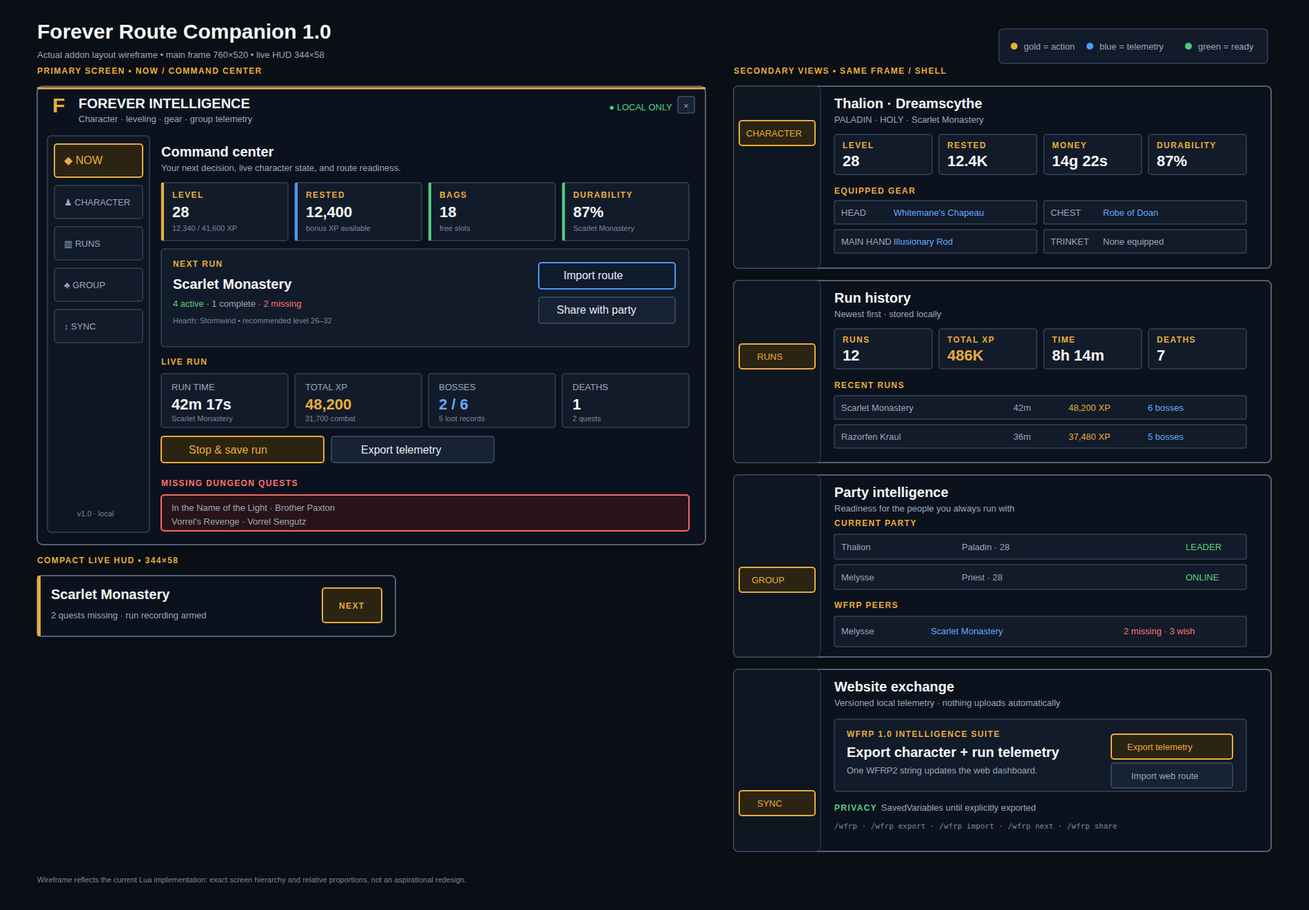
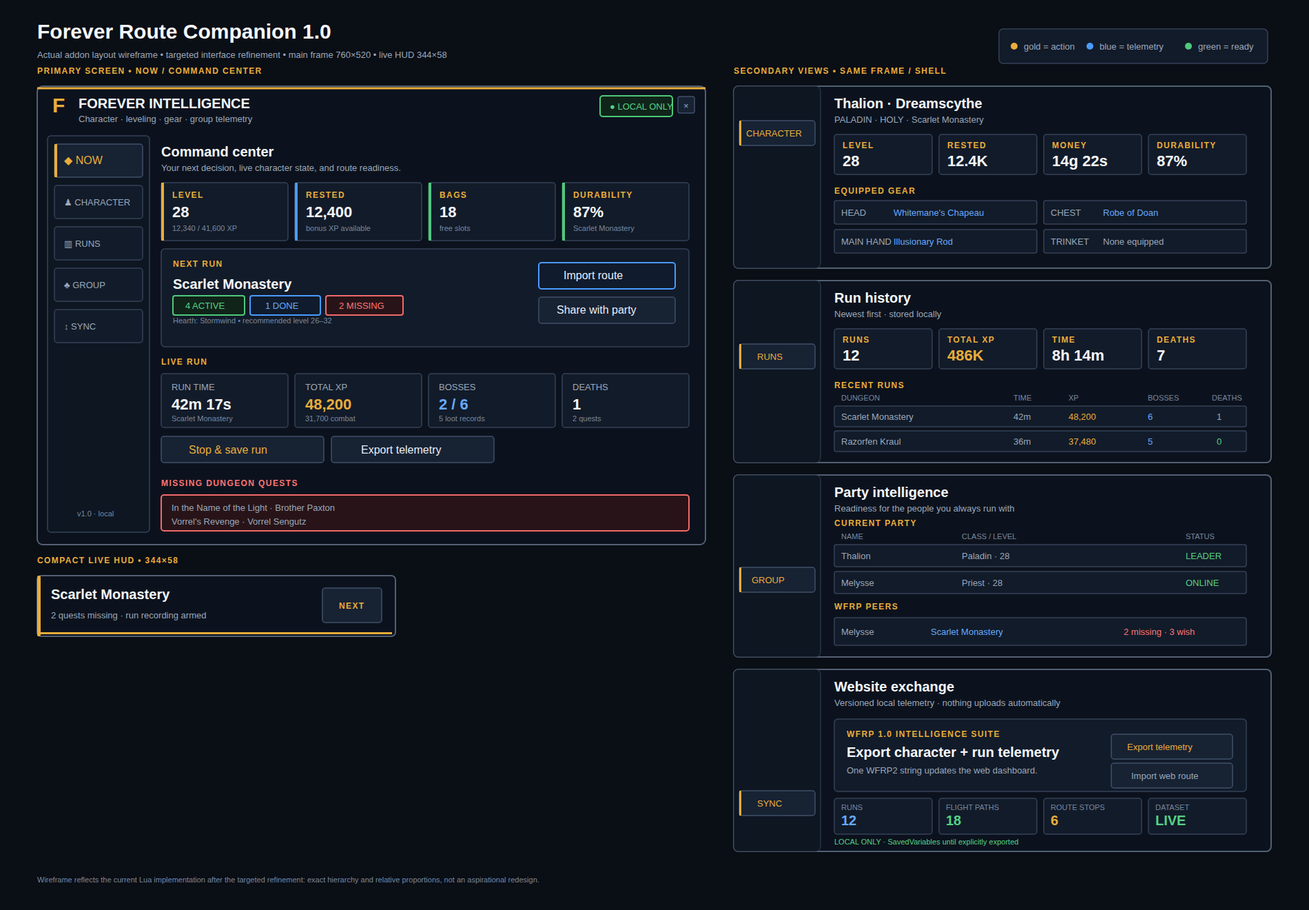
refine shared intelligence interface

diff --git a/design/addon-ui-wireframe.html b/design/addon-ui-wireframe.html
@@ -11,7 +11,7 @@
     .frame { fill: #0c121d; stroke: #526073; stroke-width: 2; }
     .surface { fill: #121b29; stroke: #354257; stroke-width: 1.5; }
     .surface2 { fill: #172233; stroke: #40506a; stroke-width: 1.5; }
-    .active { fill: #2c2412; stroke: #e9ad3b; stroke-width: 2; }
+    .active { fill: #172233; stroke: #40506a; stroke-width: 1.5; }
     .telemetry { fill: #101b2d; stroke: #4b9bff; stroke-width: 2; }
     .ready { fill: #10241a; stroke: #4fc97b; stroke-width: 2; }
     .warn { fill: #281418; stroke: #f16a6a; stroke-width: 2; }
@@ -35,7 +35,7 @@
 <svg viewBox="0 0 1900 1320" role="img" aria-label="Actual addon layout wireframe for Forever Route Companion">
   <rect x="0" y="0" width="1900" height="1320" fill="#0a0e15"/>
   <text x="54" y="56" class="h1">Forever Route Companion 1.0</text>
-  <text x="54" y="84" class="small">Actual addon layout wireframe • main frame 760×520 • live HUD 344×58</text>
+  <text x="54" y="84" class="small">Actual addon layout wireframe • targeted interface refinement • main frame 760×520 • live HUD 344×58</text>
   <g transform="translate(1450,42)">
     <rect x="0" y="0" width="390" height="50" rx="6" class="surface"/>
     <circle cx="22" cy="25" r="5" fill="#e9ad3b"/><text x="36" y="30" class="small">gold = action</text>
@@ -51,13 +51,13 @@
     <text x="22" y="38" class="gold" style="font-size:30px;font-weight:900">F</text>
     <text x="60" y="32" class="h2">FOREVER INTELLIGENCE</text>
     <text x="60" y="52" class="small">Character · leveling · gear · group telemetry</text>
-    <text x="830" y="35" class="small green">● LOCAL ONLY</text>
+    <rect x="817" y="14" width="105" height="30" rx="4" class="ready"/><text x="831" y="34" class="small green">● LOCAL ONLY</text>
     <rect x="930" y="15" width="24" height="24" rx="3" class="surface2"/><text x="938" y="33" class="small">×</text>
 
     <!-- left rail 116/760 proportion -->
     <rect x="15" y="72" width="148" height="575" rx="5" fill="#0e1622" stroke="#354257" stroke-width="1.5"/>
     <g transform="translate(25,84)">
-      <rect x="0" y="0" width="128" height="48" rx="4" class="active"/><text x="14" y="29" class="t gold">◆  NOW</text>
+      <rect x="0" y="0" width="128" height="48" rx="4" class="active"/><rect x="0" y="0" width="4" height="48" fill="#e9ad3b"/><text x="14" y="29" class="t gold">◆  NOW</text>
       <rect x="0" y="60" width="128" height="48" rx="4" class="surface"/><text x="14" y="89" class="small">♟  CHARACTER</text>
       <rect x="0" y="120" width="128" height="48" rx="4" class="surface"/><text x="14" y="149" class="small">▥  RUNS</text>
       <rect x="0" y="180" width="128" height="48" rx="4" class="surface"/><text x="14" y="209" class="small">♣  GROUP</text>
@@ -82,7 +82,9 @@
       <rect x="0" y="158" width="766" height="142" rx="5" class="surface"/>
       <text x="17" y="184" class="label">NEXT RUN</text>
       <text x="17" y="216" class="h2">Scarlet Monastery</text>
-      <text x="17" y="242" class="small"><tspan class="green">4 active</tspan> · 1 complete · <tspan class="red">2 missing</tspan></text>
+      <rect x="17" y="226" width="104" height="28" rx="3" class="ready"/><text x="35" y="245" class="small green">4 ACTIVE</text>
+      <rect x="129" y="226" width="102" height="28" rx="3" class="telemetry"/><text x="151" y="245" class="small blue">1 DONE</text>
+      <rect x="239" y="226" width="112" height="28" rx="3" class="warn"/><text x="258" y="245" class="small red">2 MISSING</text>
       <text x="17" y="266" class="tiny">Hearth: Stormwind • recommended level 26–32</text>
       <rect x="548" y="178" width="198" height="38" rx="4" class="telemetry"/><text x="584" y="202" class="t">Import route</text>
       <rect x="548" y="228" width="198" height="38" rx="4" class="surface2"/><text x="574" y="252" class="t">Share with party</text>
@@ -112,6 +114,7 @@
     <text x="20" y="34" class="h2">Scarlet Monastery</text>
     <text x="20" y="62" class="small">2 quests missing · run recording armed</text>
     <rect x="414" y="18" width="86" height="50" rx="4" class="active"/><text x="438" y="48" class="label">NEXT</text>
+    <rect x="5" y="82" width="510" height="3" fill="#e9ad3b"/>
   </g>
 
   <!-- SECONDARY SCREEN CONTACT SHEET -->
@@ -122,7 +125,7 @@
     <g>
       <rect x="0" y="0" width="780" height="264" rx="7" class="frame"/>
       <rect x="0" y="0" width="126" height="264" rx="7" fill="#0e1622" stroke="#354257"/>
-      <rect x="8" y="50" width="110" height="36" rx="4" class="active"/><text x="18" y="73" class="small gold">CHARACTER</text>
+      <rect x="8" y="50" width="110" height="36" rx="4" class="active"/><rect x="8" y="50" width="3" height="36" fill="#e9ad3b"/><text x="18" y="73" class="small gold">CHARACTER</text>
       <text x="146" y="32" class="h2">Thalion · Dreamscythe</text><text x="146" y="53" class="small">PALADIN · HOLY · Scarlet Monastery</text>
       <g transform="translate(146,70)">
         <rect x="0" y="0" width="142" height="58" rx="4" class="surface"/><text x="12" y="20" class="label">LEVEL</text><text x="12" y="46" class="value">28</text>
@@ -143,7 +146,7 @@
     <g transform="translate(0,282)">
       <rect x="0" y="0" width="780" height="264" rx="7" class="frame"/>
       <rect x="0" y="0" width="126" height="264" rx="7" fill="#0e1622" stroke="#354257"/>
-      <rect x="8" y="92" width="110" height="36" rx="4" class="active"/><text x="34" y="115" class="small gold">RUNS</text>
+      <rect x="8" y="92" width="110" height="36" rx="4" class="active"/><rect x="8" y="92" width="3" height="36" fill="#e9ad3b"/><text x="34" y="115" class="small gold">RUNS</text>
       <text x="146" y="32" class="h2">Run history</text><text x="146" y="53" class="small">Newest first · stored locally</text>
       <g transform="translate(146,70)">
         <rect x="0" y="0" width="142" height="58" rx="4" class="surface"/><text x="12" y="20" class="label">RUNS</text><text x="12" y="46" class="value">12</text>
@@ -151,8 +154,9 @@
         <rect x="304" y="0" width="142" height="58" rx="4" class="surface"/><text x="316" y="20" class="label">TIME</text><text x="316" y="46" class="value">8h 14m</text>
         <rect x="456" y="0" width="142" height="58" rx="4" class="surface"/><text x="468" y="20" class="label">DEATHS</text><text x="468" y="46" class="value">7</text>
         <text x="0" y="86" class="label">RECENT RUNS</text>
-        <rect x="0" y="97" width="598" height="34" rx="3" class="surface"/><text x="10" y="119" class="small">Scarlet Monastery</text><text x="260" y="119" class="small">42m</text><text x="340" y="119" class="small gold">48,200 XP</text><text x="455" y="119" class="small blue">6 bosses</text>
-        <rect x="0" y="139" width="598" height="34" rx="3" class="surface"/><text x="10" y="161" class="small">Razorfen Kraul</text><text x="260" y="161" class="small">36m</text><text x="340" y="161" class="small gold">37,480 XP</text><text x="455" y="161" class="small blue">5 bosses</text>
+        <text x="10" y="104" class="tiny">DUNGEON</text><text x="260" y="104" class="tiny">TIME</text><text x="340" y="104" class="tiny">XP</text><text x="455" y="104" class="tiny">BOSSES</text><text x="548" y="104" class="tiny">DEATHS</text>
+        <rect x="0" y="112" width="598" height="30" rx="3" class="surface"/><text x="10" y="132" class="small">Scarlet Monastery</text><text x="260" y="132" class="small">42m</text><text x="340" y="132" class="small gold">48,200</text><text x="455" y="132" class="small blue">6</text><text x="555" y="132" class="small">1</text>
+        <rect x="0" y="148" width="598" height="30" rx="3" class="surface"/><text x="10" y="168" class="small">Razorfen Kraul</text><text x="260" y="168" class="small">36m</text><text x="340" y="168" class="small gold">37,480</text><text x="455" y="168" class="small blue">5</text><text x="555" y="168" class="small green">0</text>
       </g>
     </g>
 
@@ -160,14 +164,15 @@
     <g transform="translate(0,564)">
       <rect x="0" y="0" width="780" height="264" rx="7" class="frame"/>
       <rect x="0" y="0" width="126" height="264" rx="7" fill="#0e1622" stroke="#354257"/>
-      <rect x="8" y="134" width="110" height="36" rx="4" class="active"/><text x="26" y="157" class="small gold">GROUP</text>
+      <rect x="8" y="134" width="110" height="36" rx="4" class="active"/><rect x="8" y="134" width="3" height="36" fill="#e9ad3b"/><text x="26" y="157" class="small gold">GROUP</text>
       <text x="146" y="32" class="h2">Party intelligence</text><text x="146" y="53" class="small">Readiness for the people you always run with</text>
       <g transform="translate(146,74)">
         <text x="0" y="0" class="label">CURRENT PARTY</text>
-        <rect x="0" y="12" width="598" height="36" rx="3" class="surface"/><text x="10" y="35" class="small">Thalion</text><text x="185" y="35" class="small">Paladin · 28</text><text x="510" y="35" class="small green">LEADER</text>
-        <rect x="0" y="56" width="598" height="36" rx="3" class="surface"/><text x="10" y="79" class="small">Melysse</text><text x="185" y="79" class="small">Priest · 28</text><text x="510" y="79" class="small green">ONLINE</text>
-        <text x="0" y="119" class="label">WFRP PEERS</text>
-        <rect x="0" y="131" width="598" height="44" rx="3" class="surface"/><text x="10" y="157" class="small">Melysse</text><text x="140" y="157" class="small blue">Scarlet Monastery</text><text x="420" y="157" class="small red">2 missing · 3 wish</text>
+        <text x="10" y="19" class="tiny">NAME</text><text x="185" y="19" class="tiny">CLASS / LEVEL</text><text x="510" y="19" class="tiny">STATUS</text>
+        <rect x="0" y="27" width="598" height="32" rx="3" class="surface"/><text x="10" y="48" class="small">Thalion</text><text x="185" y="48" class="small">Paladin · 28</text><text x="510" y="48" class="small green">LEADER</text>
+        <rect x="0" y="66" width="598" height="32" rx="3" class="surface"/><text x="10" y="87" class="small">Melysse</text><text x="185" y="87" class="small">Priest · 28</text><text x="510" y="87" class="small green">ONLINE</text>
+        <text x="0" y="121" class="label">WFRP PEERS</text>
+        <rect x="0" y="133" width="598" height="40" rx="3" class="surface"/><text x="10" y="158" class="small">Melysse</text><text x="140" y="158" class="small blue">Scarlet Monastery</text><text x="420" y="158" class="small red">2 missing · 3 wish</text>
       </g>
     </g>
 
@@ -175,7 +180,7 @@
     <g transform="translate(0,846)">
       <rect x="0" y="0" width="780" height="264" rx="7" class="frame"/>
       <rect x="0" y="0" width="126" height="264" rx="7" fill="#0e1622" stroke="#354257"/>
-      <rect x="8" y="176" width="110" height="36" rx="4" class="active"/><text x="34" y="199" class="small gold">SYNC</text>
+      <rect x="8" y="176" width="110" height="36" rx="4" class="active"/><rect x="8" y="176" width="3" height="36" fill="#e9ad3b"/><text x="34" y="199" class="small gold">SYNC</text>
       <text x="146" y="32" class="h2">Website exchange</text><text x="146" y="53" class="small">Versioned local telemetry · nothing uploads automatically</text>
       <rect x="146" y="72" width="598" height="105" rx="5" class="surface"/>
       <text x="164" y="98" class="label">WFRP 1.0 INTELLIGENCE SUITE</text>
@@ -183,12 +188,17 @@
       <text x="164" y="151" class="small">One WFRP2 string updates the web dashboard.</text>
       <rect x="548" y="94" width="176" height="36" rx="4" class="active"/><text x="571" y="117" class="small gold">Export telemetry</text>
       <rect x="548" y="136" width="176" height="36" rx="4" class="surface2"/><text x="577" y="159" class="small">Import web route</text>
-      <text x="146" y="205" class="label green">PRIVACY</text><text x="214" y="205" class="small">SavedVariables until explicitly exported</text>
-      <text x="146" y="231" class="tiny mono">/wfrp · /wfrp export · /wfrp import · /wfrp next · /wfrp share</text>
+      <g transform="translate(146,187)">
+        <rect x="0" y="0" width="142" height="52" rx="4" class="surface"/><text x="10" y="17" class="tiny">RUNS</text><text x="10" y="39" class="h2 blue">12</text>
+        <rect x="152" y="0" width="142" height="52" rx="4" class="surface"/><text x="162" y="17" class="tiny">FLIGHT PATHS</text><text x="162" y="39" class="h2 green">18</text>
+        <rect x="304" y="0" width="142" height="52" rx="4" class="surface"/><text x="314" y="17" class="tiny">ROUTE STOPS</text><text x="314" y="39" class="h2 gold">6</text>
+        <rect x="456" y="0" width="142" height="52" rx="4" class="surface"/><text x="466" y="17" class="tiny">DATASET</text><text x="466" y="39" class="h2 green">LIVE</text>
+      </g>
+      <text x="146" y="254" class="tiny green">LOCAL ONLY · SavedVariables until explicitly exported</text>
     </g>
   </g>
 
-  <text x="54" y="1280" class="tiny">Wireframe reflects the current Lua implementation: exact screen hierarchy and relative proportions, not an aspirational redesign.</text>
+  <text x="54" y="1280" class="tiny">Wireframe reflects the current Lua implementation after the targeted refinement: exact hierarchy and relative proportions, not an aspirational redesign.</text>
 </svg>
 </body>
 </html>

diff --git a/src/styles.css b/src/styles.css
@@ -23,6 +23,7 @@
   --danger: #f16a6a;
   --radius: 5px;
   --radius-sm: 3px;
+  --control-height: 38px;
 }
 
 * { box-sizing: border-box; }
@@ -30,7 +31,7 @@ html { min-width: 320px; background: var(--canvas); }
 body { margin: 0; min-width: 320px; min-height: 100vh; background: var(--canvas); }
 button, input, select, textarea { font: inherit; }
 button { color: inherit; }
-button, select, input { min-height: 44px; }
+button, select, input { min-height: var(--control-height); }
 button:focus-visible, input:focus-visible, select:focus-visible, textarea:focus-visible, a:focus-visible { outline: 2px solid var(--gold-2); outline-offset: 2px; }
 .tooltip-trigger:focus-visible { outline: 2px solid var(--gold-2); outline-offset: -2px; }
 h1, h2, h3, p { margin-top: 0; }
@@ -42,55 +43,55 @@ a { color: var(--gold-2); }
   position: sticky;
   top: 0;
   z-index: 20;
-  min-height: 64px;
+  min-height: 58px;
   display: grid;
   grid-template-columns: minmax(260px, 1fr) auto minmax(260px, 1fr);
   align-items: center;
   gap: 24px;
-  padding: 9px clamp(16px, 3vw, 48px);
+  padding: 7px clamp(16px, 3vw, 48px);
   border-top: 2px solid var(--gold);
   border-bottom: 1px solid var(--line);
   background: #0c121d;
 }
-.brand { display: flex; align-items: center; gap: 12px; width: fit-content; border: 0; background: transparent; cursor: pointer; text-align: left; text-decoration: none; }
-.brand-mark { display: grid; place-items: center; width: 38px; height: 38px; border: 1px solid var(--gold); border-radius: var(--radius-sm); background: #1b1a12; color: var(--gold-2); font: 900 19px/1 Inter, sans-serif; }
+.brand { display: flex; align-items: center; gap: 10px; width: fit-content; border: 0; background: transparent; cursor: pointer; text-align: left; text-decoration: none; }
+.brand-mark { display: grid; place-items: center; width: 34px; height: 34px; border: 1px solid var(--gold); border-radius: var(--radius-sm); background: #1b1a12; color: var(--gold-2); font: 900 17px/1 Inter, sans-serif; }
 .brand strong, .brand small { display: block; }
 .brand strong { font: 850 15px/1.15 Inter, sans-serif; color: var(--ink); letter-spacing: .04em; text-transform: uppercase; }
 .brand small { margin-top: 4px; color: var(--muted); font-size: 9px; letter-spacing: .09em; text-transform: uppercase; }
 .topbar nav { display: flex; align-items: center; gap: 2px; padding: 3px; border: 1px solid var(--line); border-radius: var(--radius); background: #080d15; }
-.topbar nav a { position: relative; display: inline-flex; align-items: center; gap: 7px; min-height: 36px; padding: 0 13px; border: 1px solid transparent; border-radius: var(--radius-sm); background: transparent; color: var(--muted); cursor: pointer; font-size: 11px; font-weight: 750; text-decoration: none; }
+.topbar nav a { position: relative; display: inline-flex; align-items: center; gap: 7px; min-height: 34px; padding: 0 12px; border: 1px solid transparent; border-radius: var(--radius-sm); background: transparent; color: var(--muted); cursor: pointer; font-size: 11px; font-weight: 750; text-decoration: none; }
 .topbar nav a:hover { color: var(--ink); background: var(--surface-2); }
-.topbar nav a.active { border-color: var(--gold-dark); background: #211e12; color: var(--gold-2); }
+.topbar nav a.active { border-color: var(--line); background: var(--surface-2); box-shadow: inset 0 -2px var(--gold); color: var(--ink); }
 .nav-icon { color: var(--gold); font-size: 12px; line-height: 1; }
-.data-stamp { justify-self: end; display: grid; grid-template-columns: 8px auto; align-items: center; gap: 1px 8px; color: var(--muted); }
+.data-stamp { justify-self: end; display: grid; min-height: 34px; grid-template-columns: 8px auto; align-items: center; gap: 1px 8px; padding: 5px 10px; border: 1px solid var(--line-soft); border-radius: var(--radius-sm); background: #080d15; color: var(--muted); }
 .data-stamp > span:last-child { display: grid; gap: 1px; }
 .data-stamp strong { color: var(--success); font-size: 9px; letter-spacing: .1em; }
 .data-stamp small { font-size: 9px; }
 .status-dot { grid-row: 1 / 3; width: 7px; height: 7px; border-radius: 50%; background: var(--success); }
 
-.planner-layout { display: grid; grid-template-columns: minmax(280px, 330px) minmax(0, 1fr); gap: clamp(16px, 2vw, 28px); width: min(2040px, calc(100% - 32px)); margin: 0 auto; padding: 22px 0 52px; }
+.planner-layout { display: grid; grid-template-columns: minmax(270px, 314px) minmax(0, 1fr); gap: clamp(14px, 1.6vw, 22px); width: min(2040px, calc(100% - 32px)); margin: 0 auto; padding: 18px 0 44px; }
 .panel { border: 1px solid var(--line); border-radius: var(--radius); background: var(--surface); overflow: hidden; }
-.character-panel { position: sticky; top: 100px; align-self: start; padding: 24px; }
+.character-panel { position: sticky; top: 82px; align-self: start; padding: 19px; }
 .section-kicker, .eyebrow { color: var(--gold); font-size: 10px; font-weight: 800; letter-spacing: .16em; text-transform: uppercase; }
 .character-panel h2, .workspace-header h2, .route-card h3, .detail-panel h2 { margin: 6px 0 4px; color: var(--ink); }
 .character-panel h2 { font-size: 27px; }
-.field-grid { display: grid; grid-template-columns: 1fr 1fr; gap: 14px; margin-top: 22px; }
+.field-grid { display: grid; grid-template-columns: 1fr 1fr; gap: 11px; margin-top: 17px; }
 label > span, .field-grid label > span { display: block; margin-bottom: 7px; color: var(--muted); font-size: 11px; font-weight: 700; letter-spacing: .04em; text-transform: uppercase; }
 input, select { width: 100%; border: 1px solid var(--line); border-radius: var(--radius-sm); padding: 0 11px; background: #0a0f16; color: var(--ink); }
 input:hover, select:hover { border-color: #59676b; }
-.xp-track-wrap { margin-top: 24px; }
+.xp-track-wrap { margin-top: 18px; }
 .xp-track-label, .xp-track-meta { display: flex; justify-content: space-between; gap: 12px; }
 .xp-track-label { margin-bottom: 8px; font-size: 12px; color: var(--muted); }
 .xp-track-label strong { color: var(--gold-2); }
 .xp-track { height: 12px; border: 1px solid var(--line); padding: 2px; background: #080b0c; }
 .xp-track span { display: block; height: 100%; background: var(--gold); transition: width .25s ease; }
 .xp-track-meta { margin-top: 6px; color: #748080; font-size: 10px; }
-.toggle-row { display: flex; gap: 12px; margin: 24px 0 0; padding: 14px; border: 1px solid var(--line-soft); background: var(--surface-2); cursor: pointer; }
+.toggle-row { display: flex; gap: 10px; margin: 18px 0 0; padding: 11px; border: 1px solid var(--line-soft); background: var(--surface-2); cursor: pointer; }
 .toggle-row input { flex: 0 0 auto; width: 18px; min-height: 18px; margin: 2px 0 0; accent-color: var(--gold); }
 .toggle-row span { margin: 0; color: var(--ink); text-transform: none; letter-spacing: normal; }
 .toggle-row strong, .toggle-row small { display: block; }
 .toggle-row small { margin-top: 4px; color: var(--muted); font-weight: 400; line-height: 1.45; }
-.curve-note { margin-top: 18px; padding: 15px 0 0; border-top: 1px solid var(--line-soft); }
+.curve-note { margin-top: 14px; padding: 12px 0 0; border-top: 1px solid var(--line-soft); }
 .curve-note strong { color: var(--gold-2); font-size: 12px; }
 .curve-note p { margin: 6px 0 0; color: var(--muted); font-size: 12px; line-height: 1.55; }
 
@@ -201,14 +202,14 @@ button.secondary:hover { color: var(--ink); background: var(--surface-2); }
 .route-adder label span { margin-bottom: 6px; }
 .empty-state { margin: 20px 0 20px 52px; padding: 42px; border: 1px dashed var(--line); color: var(--muted); text-align: center; }
 
-.library-shell { width: min(2040px, calc(100% - 32px)); margin: 0 auto; padding: 22px 0 52px; }
+.library-shell { width: min(2040px, calc(100% - 32px)); margin: 0 auto; padding: 18px 0 44px; }
 .breadcrumbs { display: flex; align-items: center; gap: 8px; width: min(2040px, calc(100% - 32px)); min-height: 34px; margin: 0 auto -10px; padding-top: 8px; color: var(--muted); font-size: 10px; }
 .breadcrumbs > * + *::before { content: "/"; margin-right: 8px; color: #4d5868; }
 .breadcrumbs a { color: #aab4c2; text-decoration: none; }
 .breadcrumbs a:hover { color: var(--gold-2); }
 .breadcrumbs [aria-current="page"] { color: var(--ink); }
-.library-header { display: flex; justify-content: space-between; align-items: end; gap: 22px; margin-bottom: 14px; }
-.library-header h1 { margin: 4px 0 3px; font-size: clamp(26px, 3vw, 34px); }
+.library-header { display: flex; justify-content: space-between; align-items: end; gap: 18px; margin-bottom: 11px; }
+.library-header h1 { margin: 3px 0 2px; font-size: clamp(25px, 2.6vw, 32px); }
 .library-header p { margin: 0; color: var(--muted); }
 .library-filters { display: grid; grid-template-columns: minmax(240px, 1fr) 170px; gap: 10px; min-width: min(480px, 100%); }
 .library-filters.wide { grid-template-columns: minmax(260px, 1.4fr) 1fr 160px; min-width: min(760px, 100%); }
@@ -598,10 +599,10 @@ button.secondary:hover { color: var(--ink); background: var(--surface-2); }
 .wishlist-card strong, .wishlist-card small { display: block; }
 .wishlist-card small { margin-top: 3px; color: var(--muted); font-size: 9px; }
 .wishlist-card-meta { display: flex; grid-column: 1 / -1; justify-content: space-between; gap: 10px; color: var(--muted); font-size: 9px; }
-.profile-empty, .profile-panel .empty-copy { margin: 0; padding: 28px; color: var(--muted); text-align: center; }
+.profile-empty, .profile-panel .empty-copy { margin: 0; padding: 20px; color: var(--muted); text-align: center; }
 .companion-panel, .integration-health { margin-top: 10px; }
 .addon-download { display: inline-flex; align-items: center; min-height: 36px; padding: 0 12px; border: 1px solid var(--gold-dark); border-radius: var(--radius-sm); background: #211e12; color: var(--gold-2); font-size: 11px; font-weight: 800; text-decoration: none; }
-.addon-download-primary { min-height: 42px; justify-content: center; padding: 0 17px; border-color: #947122; border-left: 3px solid var(--gold); background: #211e12; font-size: 12px; }
+.addon-download-primary { min-height: 38px; justify-content: center; padding: 0 15px; border-color: #947122; border-left: 3px solid var(--gold); background: #211e12; font-size: 11px; }
 .profile-header-stack { display: grid; justify-items: end; gap: 8px; }
 .intelligence-dashboard { margin-bottom: 10px; overflow: hidden; }
 .intelligence-dashboard > header { display: flex; align-items: center; justify-content: space-between; gap: 16px; padding: 11px 14px; border-top: 2px solid var(--gold); border-bottom: 1px solid var(--line); background: var(--surface-2); }
@@ -664,7 +665,7 @@ code { padding: 2px 4px; border: 1px solid var(--line-soft); border-radius: 3px;
 .provenance-panel > div:first-child small { grid-column: 2; }
 .provenance-panel > div:nth-child(2) { display: flex; gap: 10px; }
 
-.site-footer { display: grid; grid-template-columns: 1fr auto; gap: 14px 30px; padding: 20px clamp(20px, 4vw, 60px); border-top: 1px solid var(--line); background: #0c121d; color: var(--muted); font-size: 11px; }
+.site-footer { display: grid; grid-template-columns: 1fr auto; gap: 12px 30px; padding: 16px clamp(20px, 4vw, 60px); border-top: 1px solid var(--line); background: #0c121d; color: var(--muted); font-size: 10px; }
 .site-footer strong, .site-footer span { display: block; }
 .site-footer strong { color: var(--gold-2); margin-bottom: 4px; }
 .source-links { display: flex; flex-wrap: wrap; justify-content: end; gap: 12px; }
@@ -694,6 +695,7 @@ code { padding: 2px 4px; border: 1px solid var(--line-soft); border-radius: 3px;
 }
 
 @media (max-width: 900px) {
+  :root { --control-height: 44px; }
   .topbar { position: static; display: flex; flex-wrap: wrap; gap: 12px; padding: 12px 16px; }
   .brand { flex: 1 1 auto; }
   .topbar nav { order: 3; width: 100%; }

diff --git a/src/App.jsx b/src/App.jsx
@@ -1389,7 +1389,10 @@ export default function App() {
     <GearContext.Provider value={gear}><div className="app-shell">
       <header className="topbar">
         <a className="brand" href={appHref("/")}><span className="brand-mark" aria-hidden="true">F</span><span><strong>Forever Intelligence</strong><small>Character · leveling · gear · group telemetry</small></span></a>
-        <nav aria-label="Primary navigation">{[["planner", "◆", "Route"], ["dungeons", "▦", "Dungeons"], ["quests", "?", "Quests"], ["loot", "▥", "Loot"], ["profile", "♟", "My Gear"]].map(([id, icon, label]) => <a key={id} className={(page.id === id || id === "dungeons" && page.id === "dungeon") ? "active" : ""} href={appHref(PAGE_PATHS[id])}><span className="nav-icon" aria-hidden="true">{icon}</span>{label}{id === "profile" && state.wishlist.length > 0 && <span className="nav-count">{state.wishlist.length}</span>}</a>)}</nav>
+        <nav aria-label="Primary navigation">{[["planner", "◆", "Route"], ["dungeons", "▦", "Dungeons"], ["quests", "?", "Quests"], ["loot", "▥", "Loot"], ["profile", "♟", "My Gear"]].map(([id, icon, label]) => {
+          const active = page.id === id || id === "dungeons" && page.id === "dungeon";
+          return <a key={id} className={active ? "active" : ""} aria-current={active ? "page" : undefined} href={appHref(PAGE_PATHS[id])}><span className="nav-icon" aria-hidden="true">{icon}</span>{label}{id === "profile" && state.wishlist.length > 0 && <span className="nav-count">{state.wishlist.length}</span>}</a>;
+        })}</nav>
         <div className="data-stamp"><span className="status-dot" /><span><strong>LIVE DATA</strong><small>{new Date(snapshot.fetchedAt).toLocaleDateString()}</small></span></div>
       </header>
 
